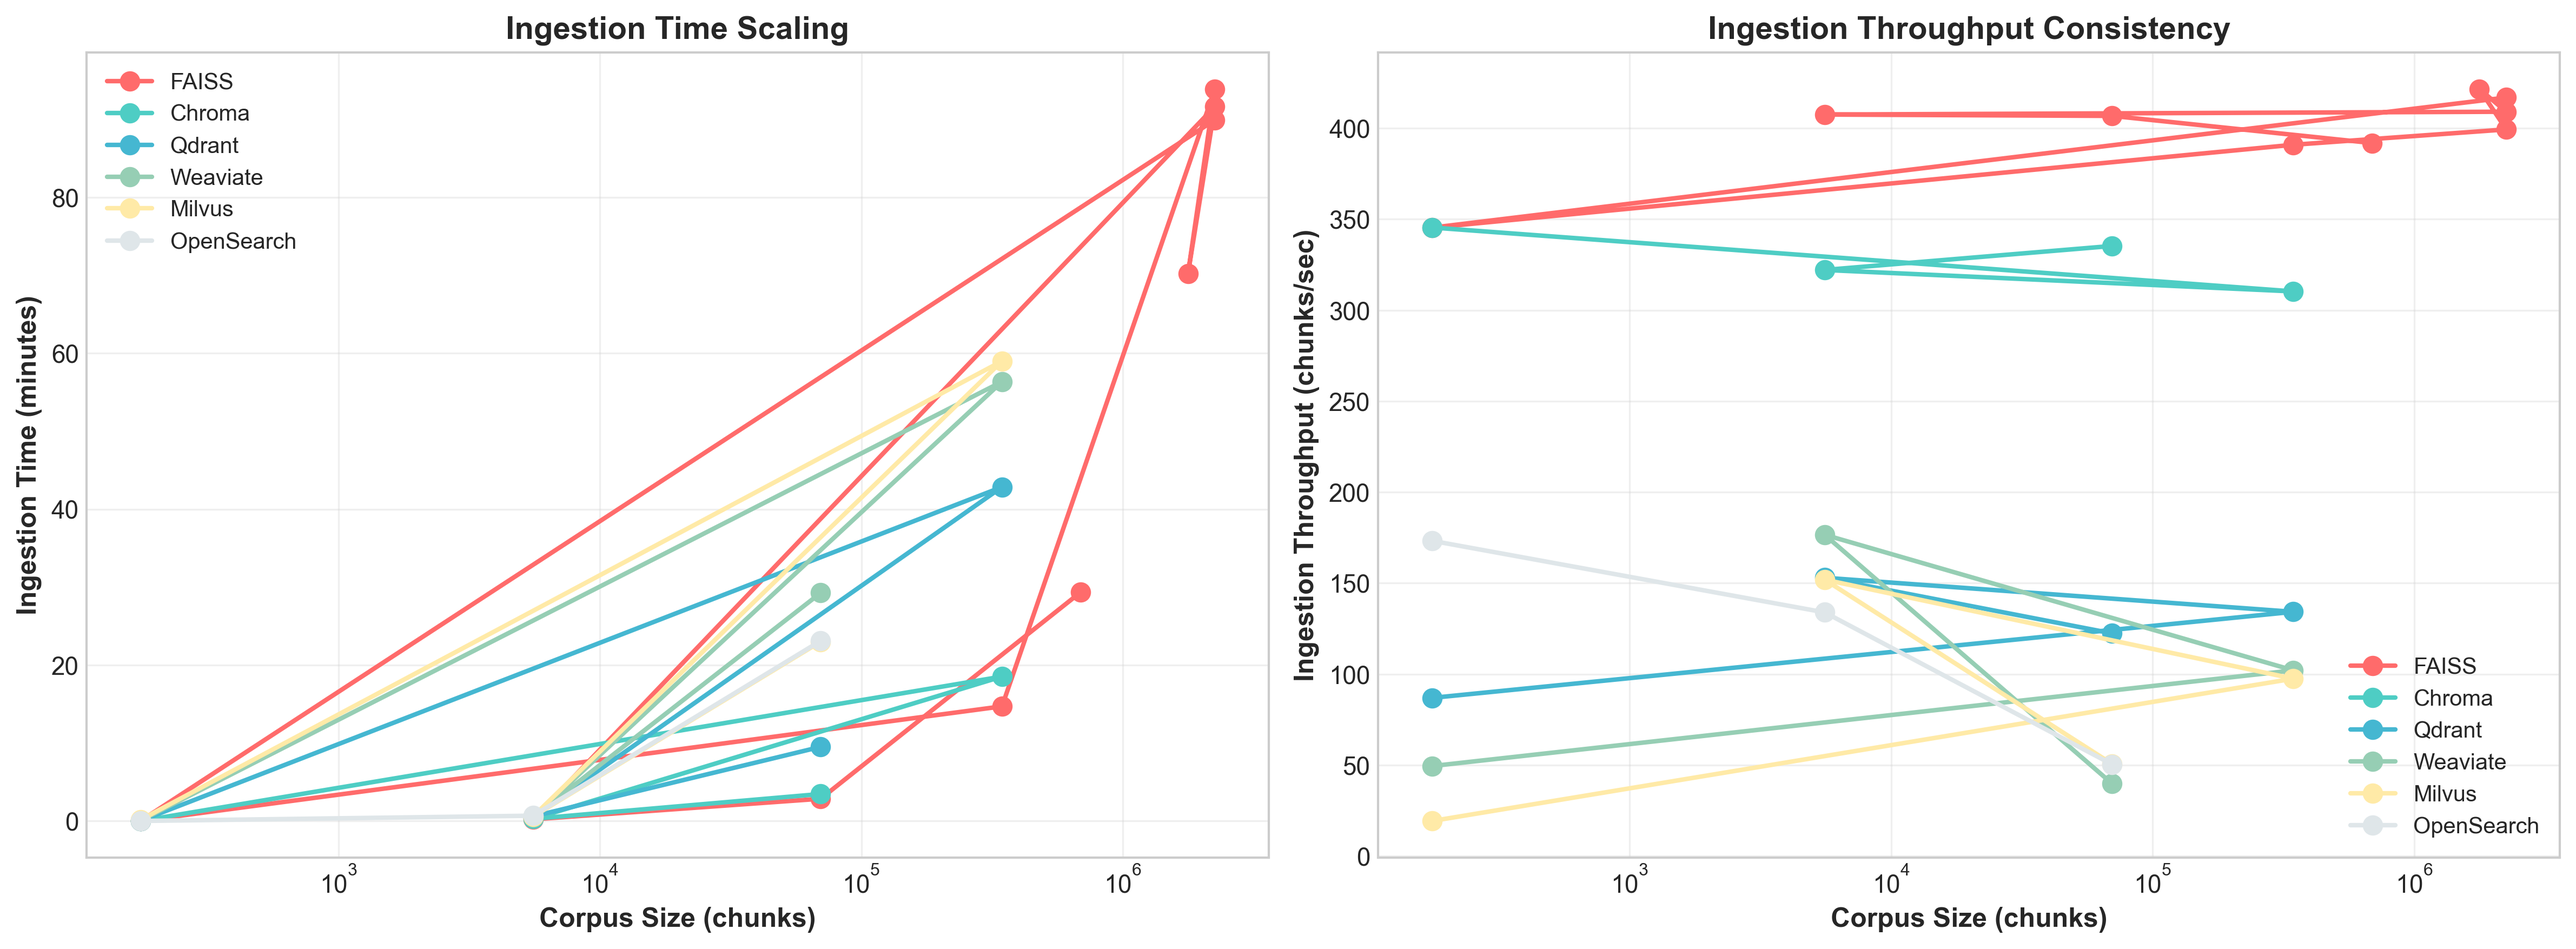
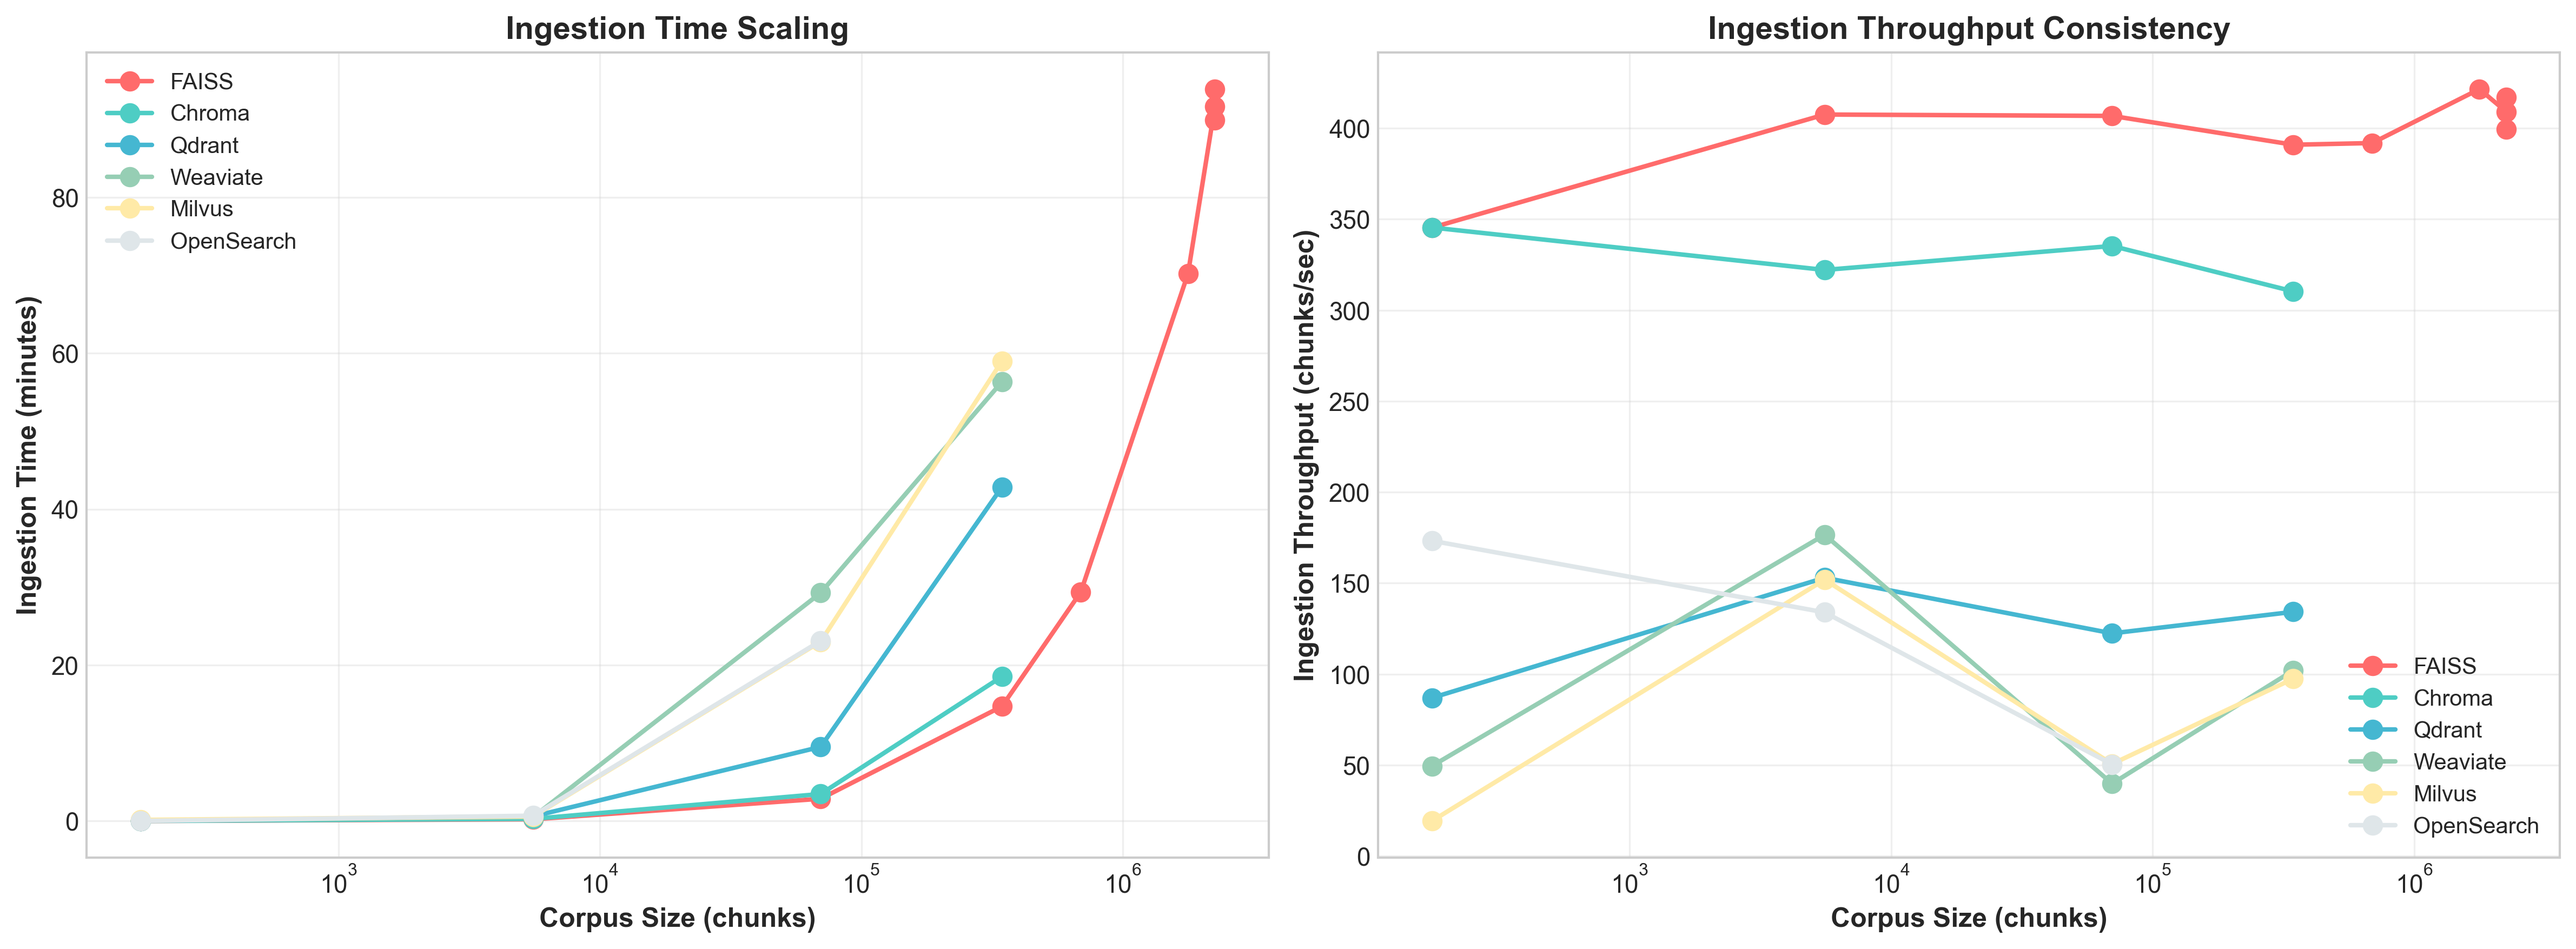
Fix data point ordering in multi-database scaling plots
- Sort all data by corpus size (ascending) before plotting
- Ensures trend lines connect points in correct order
- Prevents nonsensical line connections from unsorted data
- Power-law regression now computed on properly ordered data

The extract_metrics() function now sorts chunks, latencies, throughputs,
and ingestion_times together by chunk size to maintain data consistency.

🤖 Generated with [Claude Code](https://claude.com/claude-code)

diff --git a/Scripts/plot_multi_database_scaling.py b/Scripts/plot_multi_database_scaling.py
@@ -153,11 +153,15 @@ def extract_metrics(results):
         latencies.append(q.get('p50_latency_ms', q.get('avg_latency_ms', None)))
         throughputs.append(q.get('queries_per_second', None))
 
+    # Sort all data by chunk size (ascending order) to ensure proper plotting
+    sorted_data = sorted(zip(chunks, latencies, throughputs, ingestion_times), key=lambda x: x[0])
+    chunks_sorted, latencies_sorted, throughputs_sorted, ingestion_times_sorted = zip(*sorted_data) if sorted_data else ([], [], [], [])
+
     return {
-        'chunks': chunks,
-        'latencies': latencies,
-        'throughputs': throughputs,
-        'ingestion_times': ingestion_times
+        'chunks': list(chunks_sorted),
+        'latencies': list(latencies_sorted),
+        'throughputs': list(throughputs_sorted),
+        'ingestion_times': list(ingestion_times_sorted)
     }
 
 def plot_query_latency_comparison(all_data, output_dir):
